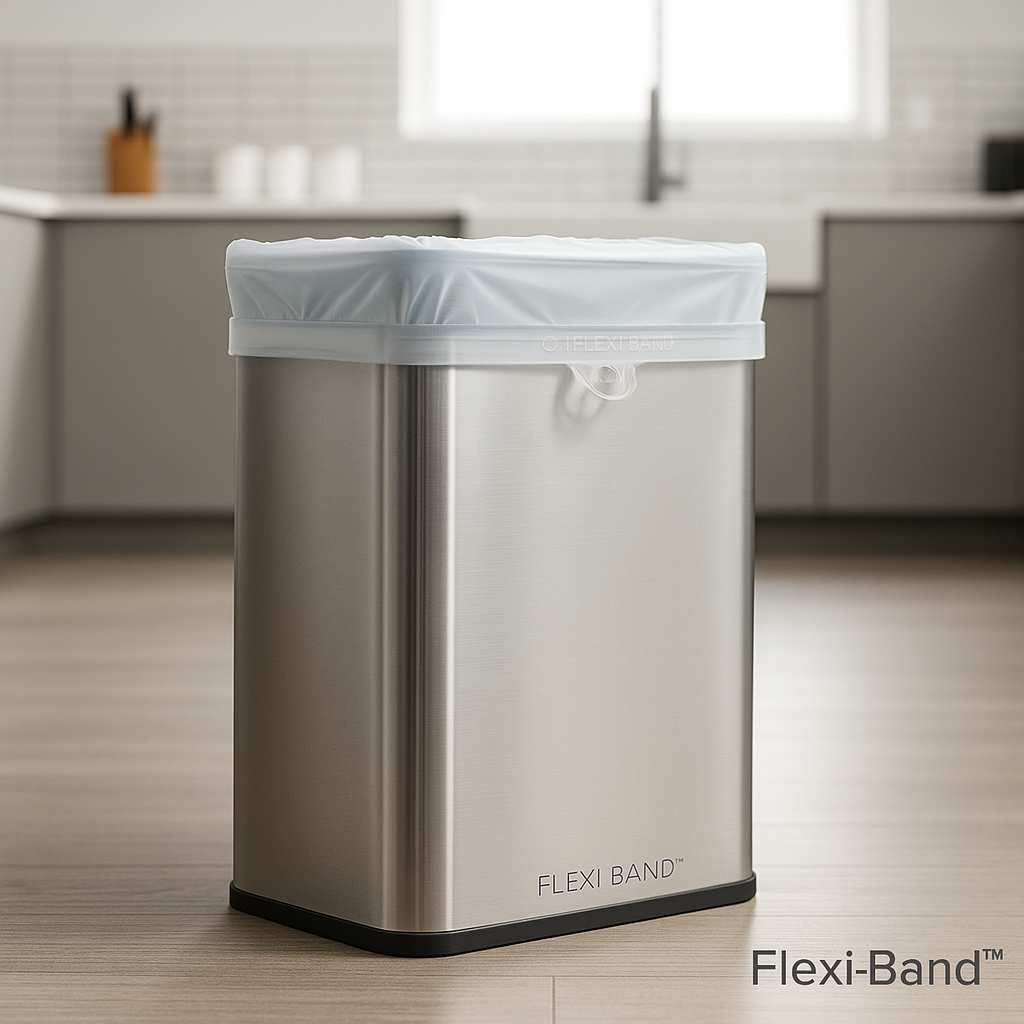
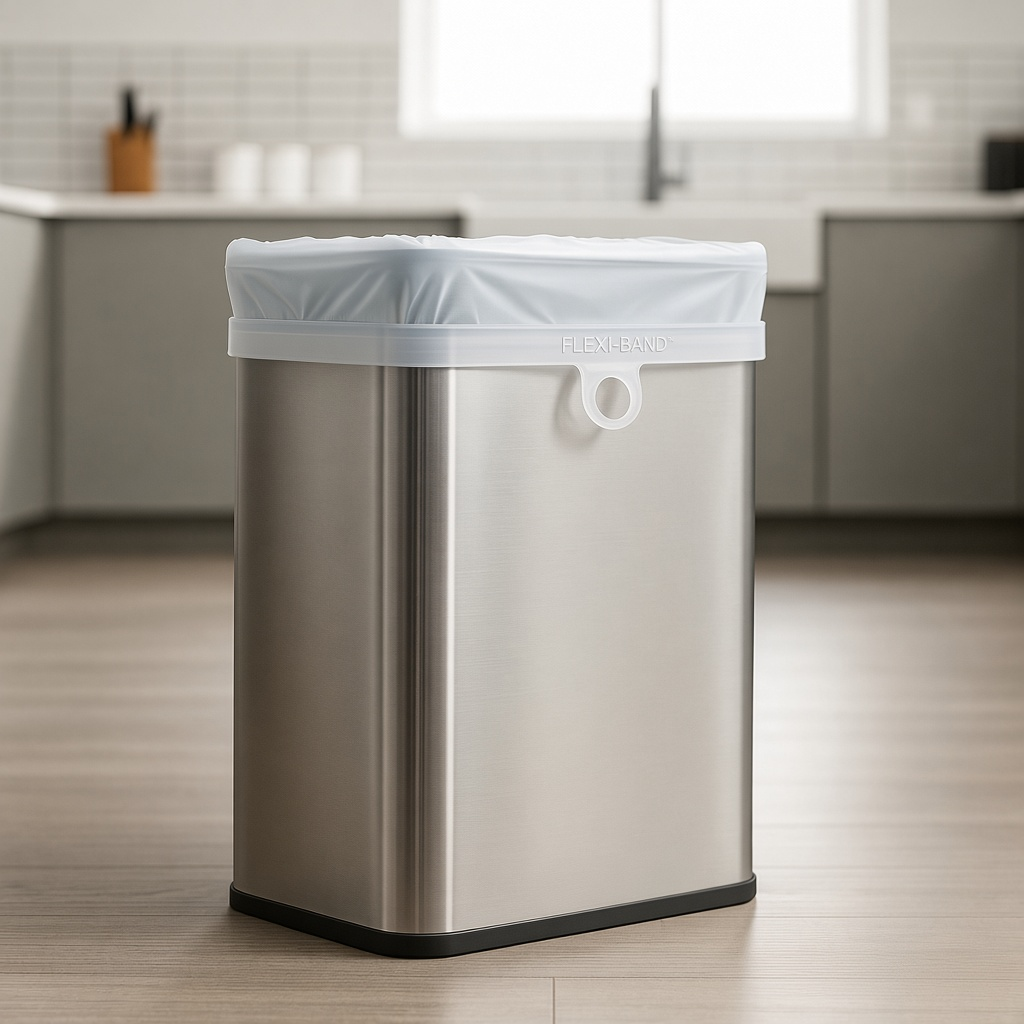
Swap in the cleaned Flexi-Band hero and keep the original
Use the cleaned render, without the wordmark on the can, as the live product image. Save the earlier render in the repo as a reference that the page does not display.

diff --git a/README.md b/README.md
@@ -74,4 +74,4 @@ There is no database. On Vercel these lines are the record — filter runtime lo
 
 ## Product image
 
-`public/flexi-band-hero.png` is the only product image. The page references it as `/flexi-band-hero.png`, including the thumbnail in the reservation modal.
+`public/flexi-band-hero.png` is the product image rendered on the page and in the reservation modal (`/flexi-band-hero.png`). `public/flexi-band-hero-original.png` is the earlier reference render, kept in the repo and not shown on the site.
